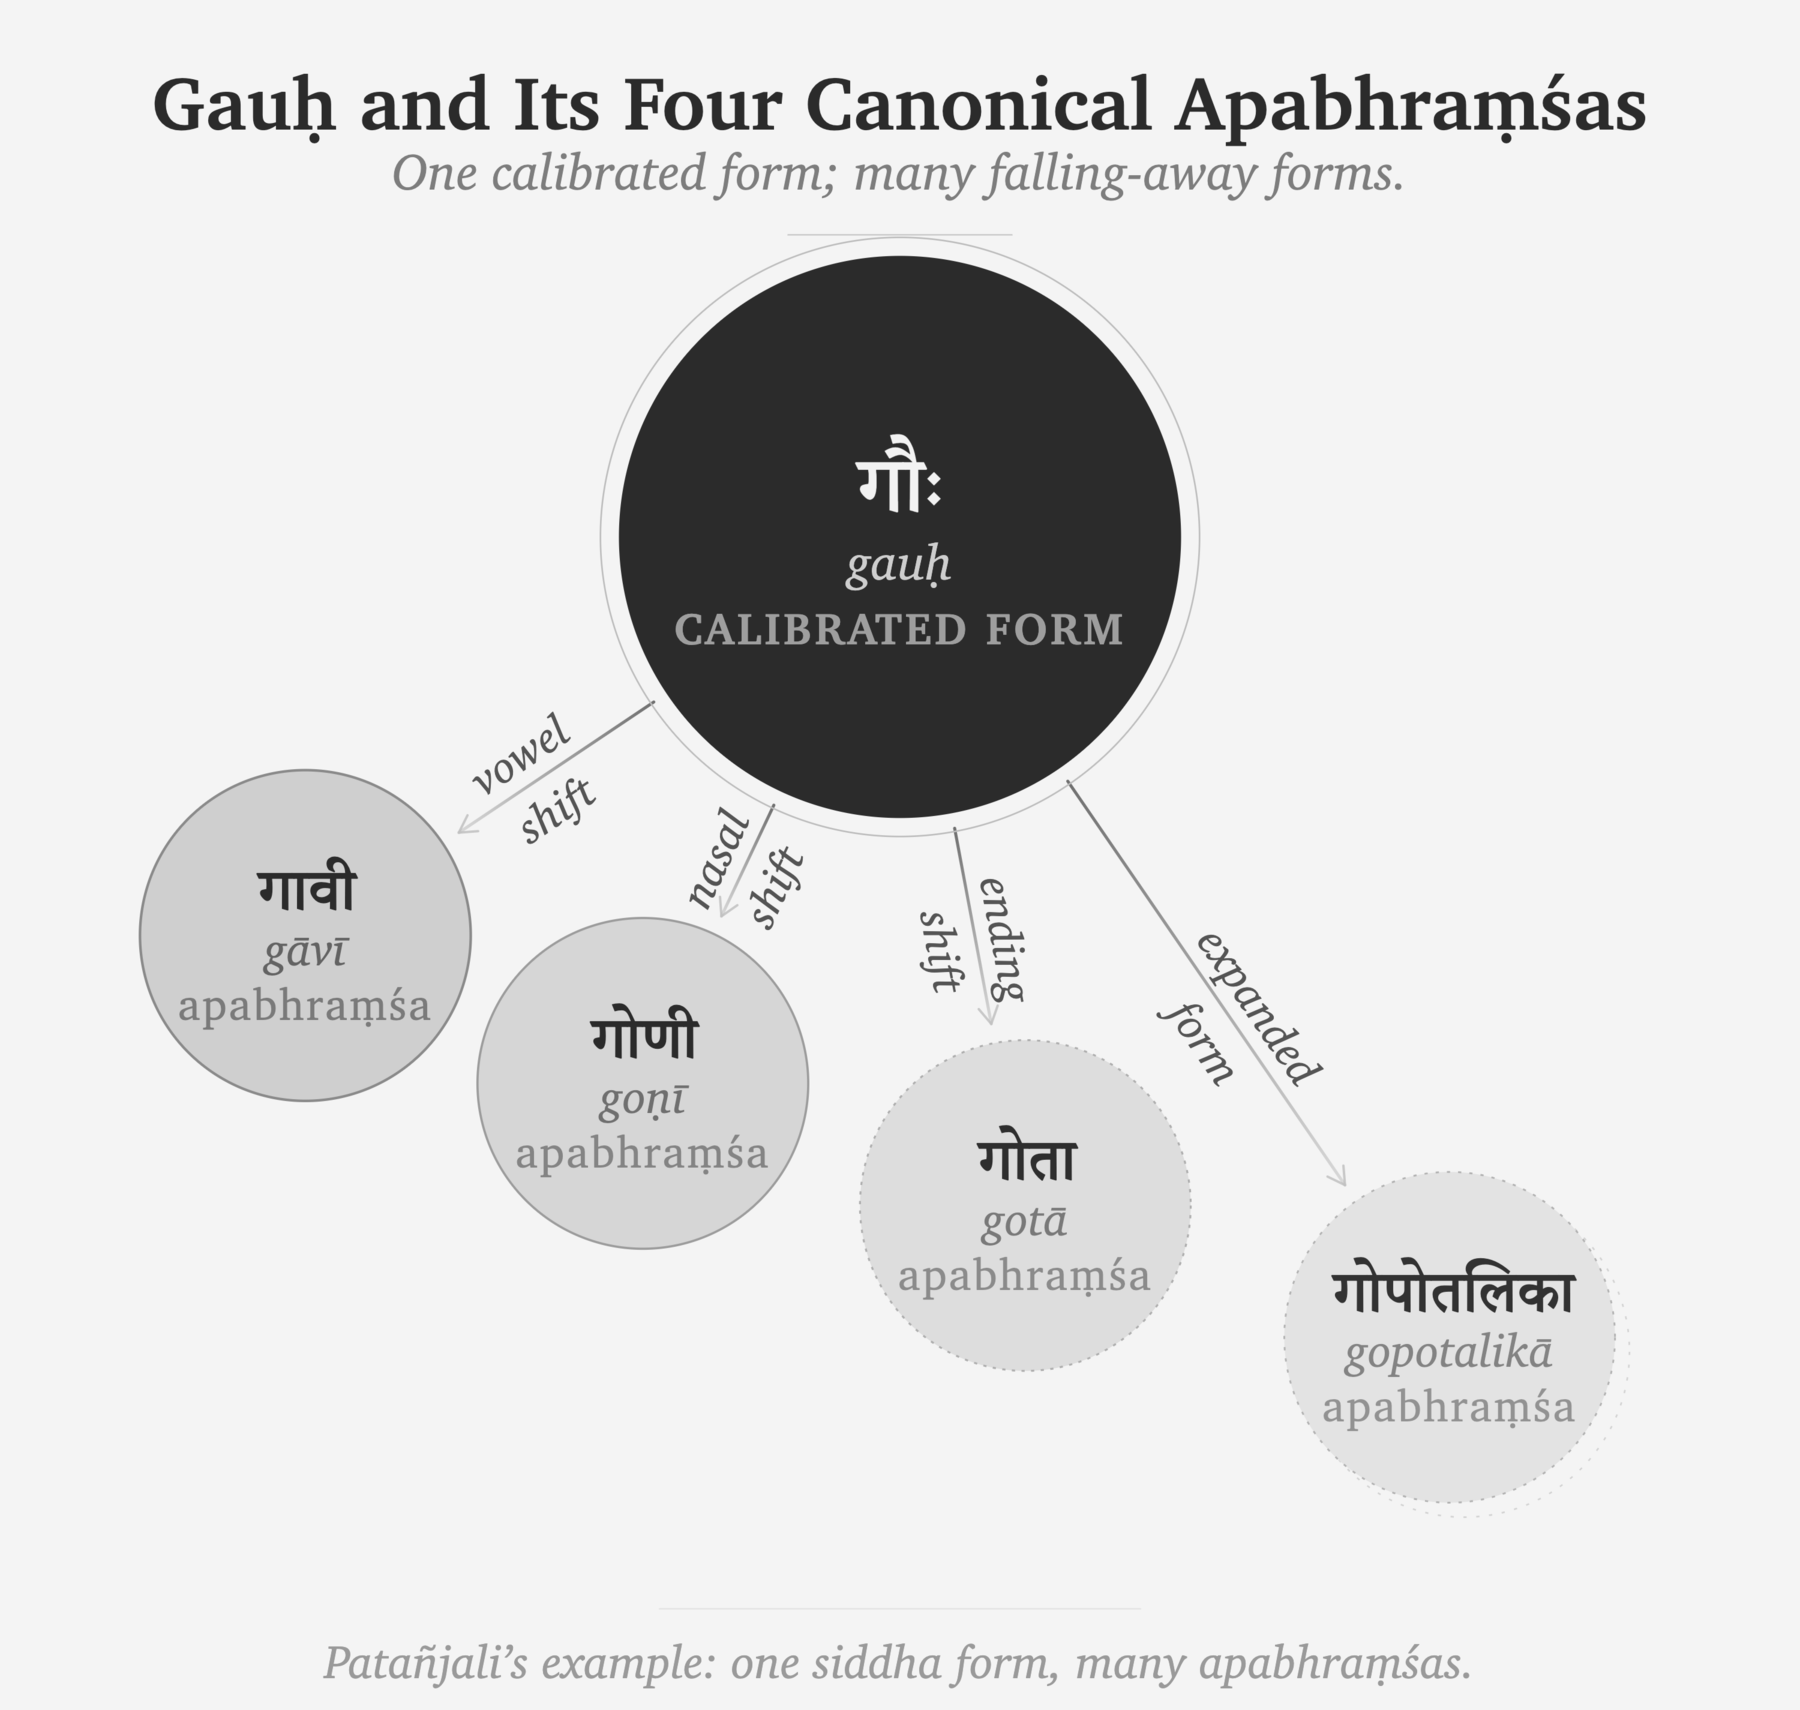
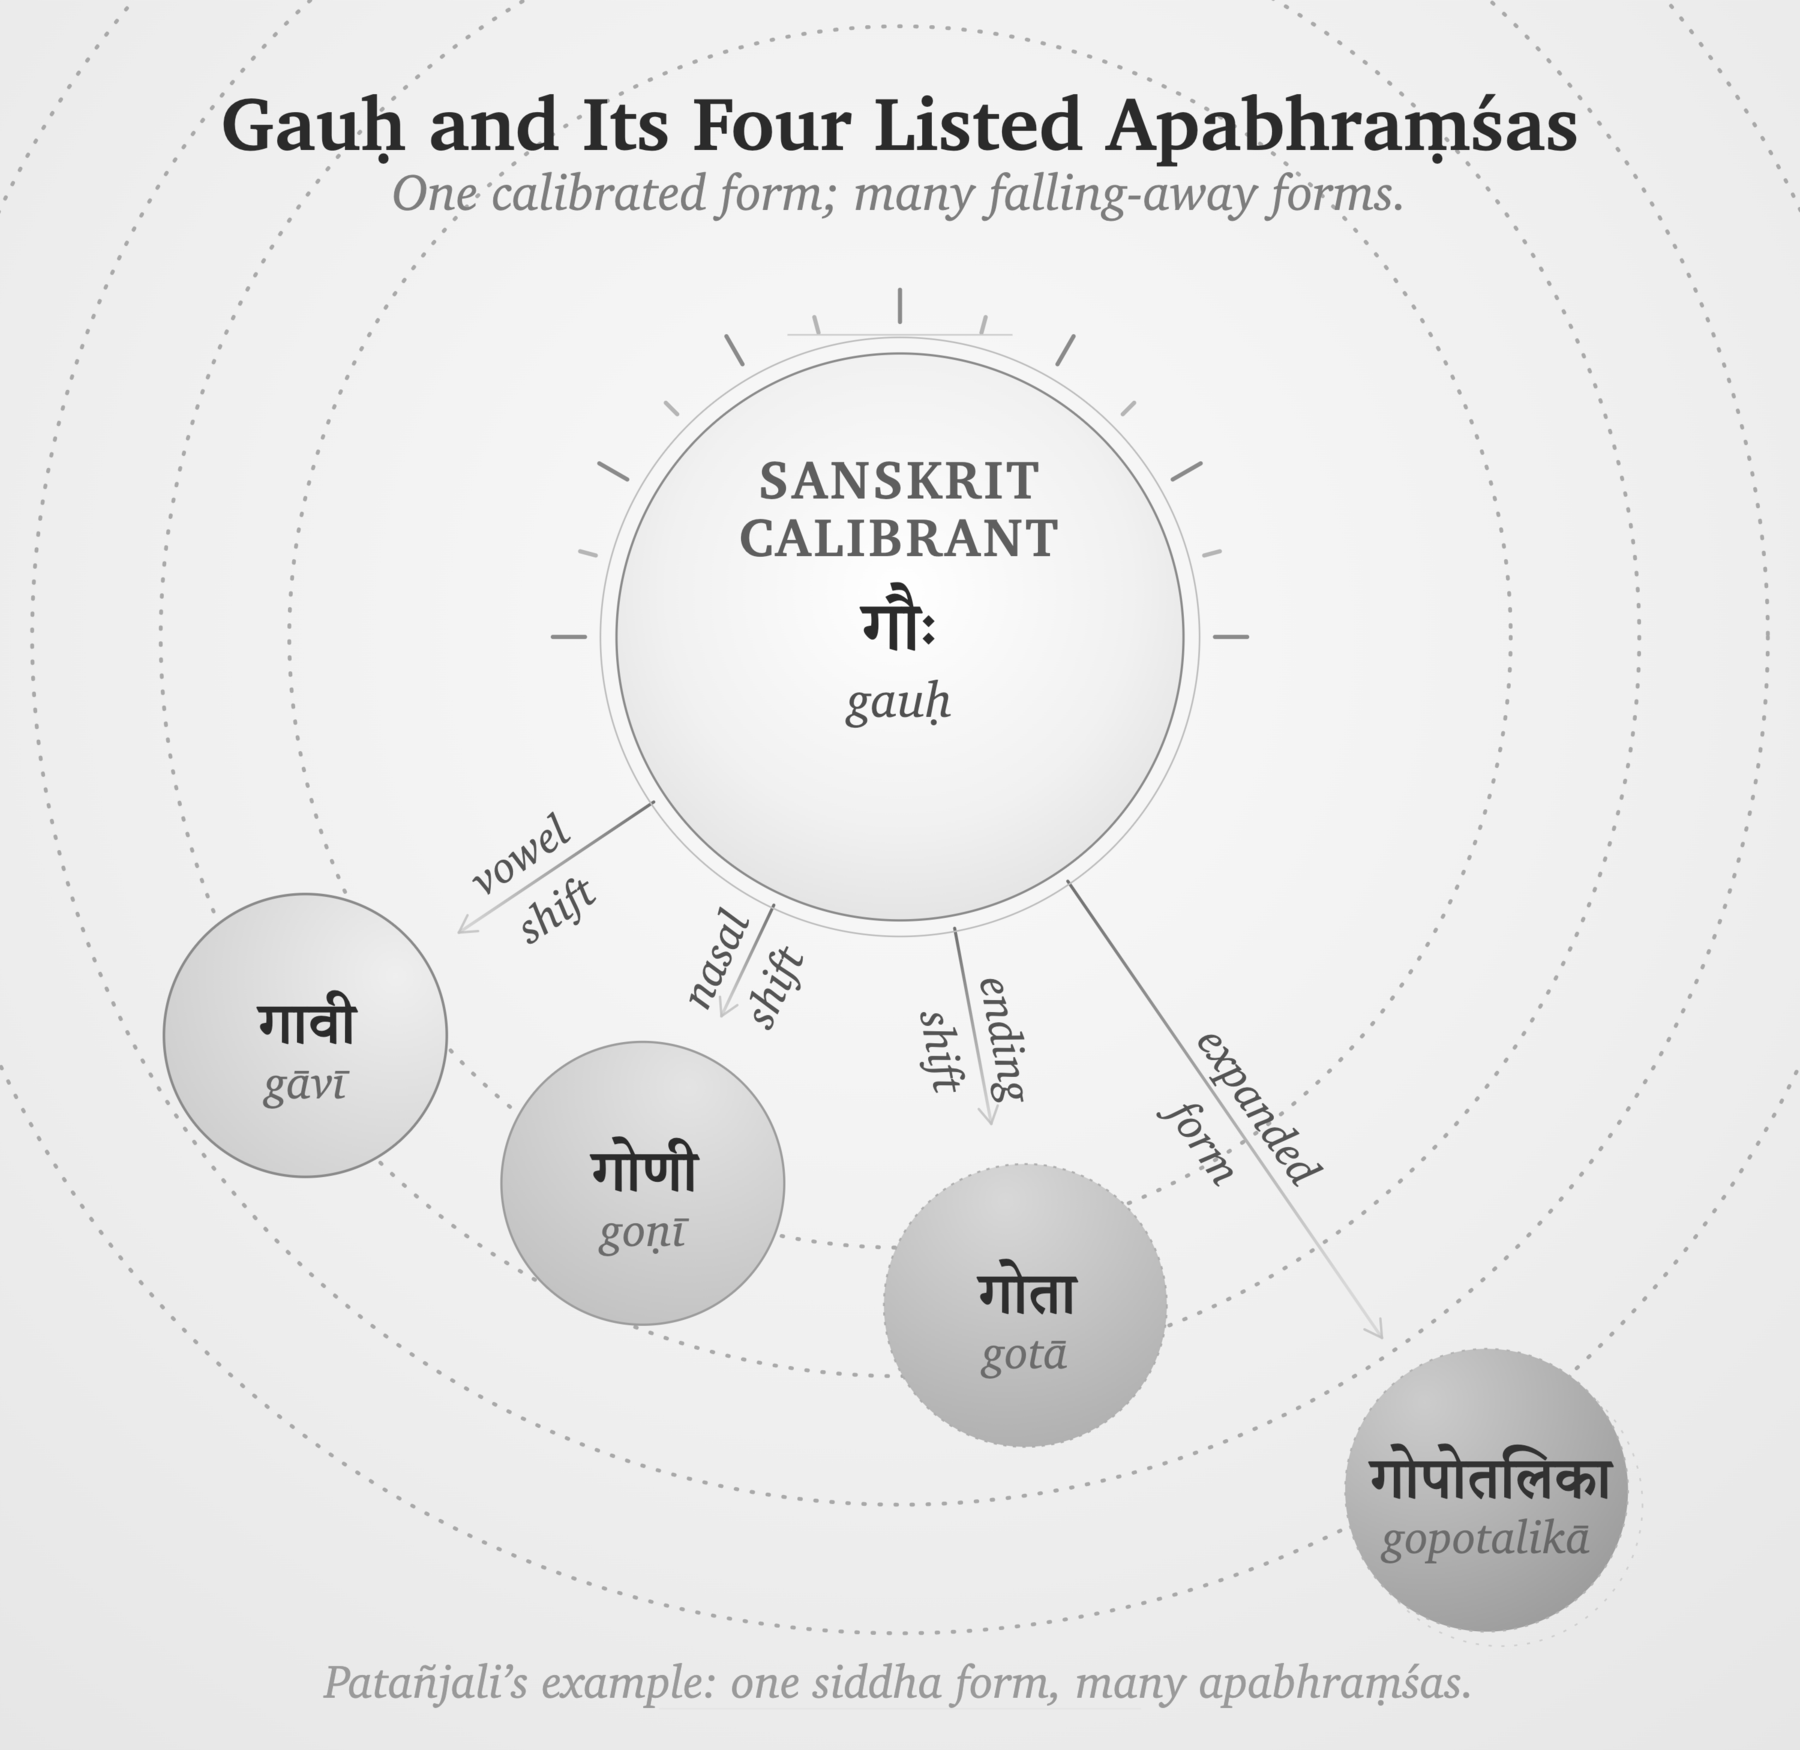
Ch3 §3.6 author polish: "sound-form" precision, chronology-requirement beat, career expanded
Author refinements to the asura analysis:
- "two words on one shape" → "two words in one sound-form" throughout (the
  precise term; shape suggested writing).
- ¶141 restructured: the pyramid's story REQUIRES chronology (early lord →
  later demon → Iranian preserver) stated explicitly before the schism; the
  career beat expanded — "papers, chairs, citations, dictionary entries...
  The pyramid rewards the fraud with promotion, a better title, a larger
  office, and another floor climbed inside the pyramid."
- "But nothing flipped, and nothing came late" promoted to its own paragraph.
- Varuṇa translation: "sins" → "wrongs" (enāṃsi).
- MW line: bare सुर् → ⟪सुर्⟫; "the very root" → "the very evidence."

Plus figure regens: gauh_four_apabhramsas (svg + pngs), sanatana_triad /
seekers_vaidika_laukika gray exports.

downloads/ deliberately left untracked (third-party reference charts).

diff --git a/writing/books/atomicSanskrit/as_1_03_strategic.md b/writing/books/atomicSanskrit/as_1_03_strategic.md
@@ -106,7 +106,7 @@ That is exactly what Western philology has done with the word **असुर (*a
 
 The wise of the wiser ages foresaw that the *Kaliyuga* (कलियुग) would be the age of confusion — the settled unsettled, the plain made murky, the clear made hard to see. Even they could not have scripted this: a civilization gaslit by a *homonym*. Stand in a room and insist the bound captive is really free, and the room laughs. Insist that the *asura* the Ṛgveda praises and the *asura* of the adversary are the same word — that the lineage which has recited the praise across thousands of years has misheard the word in its own mouth — and the claim is printed in the reference works, taught from the best chairs, and believed by many Hindus persuaded that the pyramid understands the Veda better than their own lineage-chain ever could. The deliberate conflation is the gaslight. The homonym is where the fingerprints are.
 
-**Sanskrit is not naive about words that carry more than one meaning.** The discipline catalogued the phenomenon and gave it names — **नानार्थ (*nānārtha*)** and **अनेकार्थ (*anekārtha*)**, *many-meaning*: a single form standing over more than one sense. The lexicons built whole registers for such forms — the **अमरकोश (*Amarakośa*)**, the most-memorized thesaurus in the lineage-chain, sets aside its **नानार्थवर्ग (*nānārtha-varga*)**, and Hemacandra gave a dictionary over to them entirely, the *Anekārtha-saṃgraha*. **गो (*go*)** is cow, and earth, and speech, and the ray of light — one form, four referents, and the reciter holds all four without strain. **हरि (*hari*)** is Viṣṇu, and Indra, and lion, and horse, and the color green — one form, and the verse settles which. The analysts pressed the question further and split it in two: a single word stretched across many senses — *ekaśabda*, one-word — against several distinct words collapsed onto one form — **अनेकशब्द (*anekaśabda*)**, many-words. That is precisely the distinction the pyramid's reversal-story needs and will not draw. *Bound* is *anekaśabda*: two words on one shape, not one word turned inside out.[NOTE: nanartha-homonymy]
+**Sanskrit is not naive about words that carry more than one meaning.** The discipline catalogued the phenomenon and gave it names — **नानार्थ (*nānārtha*)** and **अनेकार्थ (*anekārtha*)**, *many-meaning*: a single form standing over more than one sense. The lexicons built whole registers for such forms — the **अमरकोश (*Amarakośa*)**, the most-memorized thesaurus in the lineage-chain, sets aside its **नानार्थवर्ग (*nānārtha-varga*)**, and Hemacandra gave a dictionary over to them entirely, the *Anekārtha-saṃgraha*. **गो (*go*)** is cow, and earth, and speech, and the ray of light — one form, four referents, and the reciter holds all four without strain. **हरि (*hari*)** is Viṣṇu, and Indra, and lion, and horse, and the color green — one form, and the verse settles which. The analysts pressed the question further and split it in two: a single word stretched across many senses — *ekaśabda*, one-word — against several distinct words collapsed onto one form — **अनेकशब्द (*anekaśabda*)**, many-words. That is precisely the distinction the pyramid's reversal-story needs and will not draw. *Bound* is *anekaśabda*: two words in one sound-form, not one word turned inside out.[NOTE: nanartha-homonymy]
 
 Yāska built the same caution into his method. His governing rule is that **नामान्याख्यातजानि (*nāmāny ākhyātajāni*)** — names arise from actions: a name is not a flat label but a disclosure of what its bearer does.[NOTE: nirukta-names-from-actions]
 
@@ -122,7 +122,7 @@ Varuṇa wears it for a different deed — he *releases*. The *asura* here is th
 > अव ते हेळो वरुण नमोभिरव यज्ञेभिरीमहे हविर्भिः ।\
 > क्षयन्नस्मभ्यमसुर प्रचेता राजन्नेनांसि शिश्रथः कृतानि ॥
 >
-> *"With obeisance, with sacrifice, with oblation we soften your wrath, O Varuṇa. Ruling over us, O wise asura, O king, loosen from us the sins we have committed."* (RV 1.24.14)[NOTE: rv-1-24-14-varuna-asura]
+> *"With obeisance, with sacrifice, with oblation we soften your wrath, O Varuṇa. Ruling over us, O wise asura, O king, loosen from us the wrongs we have committed."* (RV 1.24.14)[NOTE: rv-1-24-14-varuna-asura]
 
 Two deeds, one thing held. Indra keeps the life of his people and hands it out as strength; Varuṇa frees it from the knot of guilt. The word reaches wherever that holding reaches: the Ṛgveda calls Agni *asura*, and Rudra, and Mitra — each for the life he holds. Agni for the life-fire he carries and the vigour he rules; Rudra for the fierce command over life and its healing; Mitra for the bond that holds men together.[NOTE: rv-agni-mitra-rudra-asura] The *asura* the Ṛgveda honours is the one who holds the life of the worlds and lets it move — the bearer of *asu*, the life-breath, exactly the figure *nāmāny ākhyātajāni* would predict. This is the *asura* the Ṛgveda praises.
 
@@ -136,13 +136,15 @@ And Yāska keeps the same honesty when he turns to the word itself. He does not 
 >
 > ***a-sura*** (असुर) — *the sura's opponent*: *asurāḥ suravirodhinaḥ*, "adversaries of the *suras*." A *laukika* parse — it sets *asura* against *sura*, rather than deriving it from a deed.
 
-Four alternatives for one form. Three interpretations of the word by a deed — *vaidika* action-derivations: the evil-caster who hurls off misfortune (⟪अस्⟫), the cast-down flung from his station (⟪अस्⟫), and the breath-bearer who holds the life-force (*asu*). The fourth, *a-sura*, is *laukika* — a relational gloss from the curated world, *asurāḥ suravirodhinaḥ*, "opponents of the *suras*," which leaves *sura* unrooted. The discipline completes it: *sura* is the shining one, from the *dhātu* ⟪सुर्⟫ (*sur*, *to shine*), and *a-sura* is its privative — the un-shining, the one who gives no light, the one who holds it back.[NOTE: sura-dhatu-dipti] **Separate the derivations and the two asuras stand apart. The *asura* the Ṛgveda praises and the *asura* of the adversary are not one word. They are two** — *asu-ra*, the breath-bearer the mantras just praised, and *a-sura*, the withholder, the other word on the same shape.
+Four alternatives for one form. Three interpretations of the word by a deed — *vaidika* action-derivations: the evil-caster who hurls off misfortune (⟪अस्⟫), the cast-down flung from his station (⟪अस्⟫), and the breath-bearer who holds the life-force (*asu*). The fourth, *a-sura*, is *laukika* — a relational gloss from the curated world, *asurāḥ suravirodhinaḥ*, "opponents of the *suras*," which leaves *sura* unrooted. The discipline completes it: *sura* is the shining one, from the *dhātu* ⟪सुर्⟫ (*sur*, *to shine*), and *a-sura* is its privative — the un-shining, the one who gives no light, the one who holds it back.[NOTE: sura-dhatu-dipti] **Separate the derivations and the two asuras stand apart. The *asura* the Ṛgveda praises and the *asura* of the adversary are not one word. They are two** — *asu-ra*, the breath-bearer the mantras just praised, and *a-sura*, the withholder, the other word in the same sound-form.
 
-With the two words untangled, the philological agenda stands exposed. The *asura* also stands as the adversary the *devāḥ* throw down; across the mountains the Avestan *ahura* is the high word of praise — Ahura Mazdā, the Wise Lord. To the asuric pyramid this was not a puzzle. It was an opportunity. A form that seemed to mean its own opposite — crowned in one corpus, cast down in another, praised across the mountains — was raw material for a whole prehistory: an Indo-Iranian religious schism, two branches of one people who split and traded their *devas* for *asuras*, the debris of a lost common theology reconstructed backward into PIE. Somewhere down the machinery, the philologist who spun the schism from three syllables made a career of the "discovery"; the pyramid promotes what feeds it. But nothing flipped, and nothing came late. The praised *asura* is the breath-bearer, the holder of life — and the Iranian *ahura* is that same holder of life, never turned, because he was never the other word at all. The adversary is *a-sura*, the withholder — the other word on the same shape, standing beside the praise, not arriving after it. 
+With the two words untangled, the philological agenda stands exposed. The pyramid's story requires chronology: first, an early Vedic *asura* as lord or power; later, an Indian *asura* as demon; across the mountains, an Iranian *ahura* preserving the older sense. On that sequence it builds a whole prehistory — an Indo-Iranian religious schism, two branches of one people who split and traded their *devas* for *asuras*, the debris of a lost common theology reconstructed backward into PIE. A philologist could turn that reversal into a career: papers, chairs, citations, dictionary entries, and the satisfaction of having "explained" what the lineage had supposedly misunderstood in its own mouth. The pyramid rewards the fraud with promotion, a better title, a larger office, and another floor climbed inside the pyramid.
 
-The schism the machinery reconstructed was never in the languages, and never in time. Nor was it a mishearing — any child holds two words on one shape apart, and so could the philologist. The pyramid pressed them into one on purpose, because a single reversed word buys what two honest words refuse. It buys the imaginary proto-tongue (PIE) to reconstruct. It buys the family tree that files Sanskrit in as a branch. It buys the two-branch race and the borrowed theology. The reversal was not misheard or misunderstood; it was invented — the same custody the pyramid takes when it forces the *Veda* onto a clock and files the calibrant as late (Chapter 1). And the shining root was never hidden from them: Monier-Williams's own dictionary glosses the *dhātu* सुर् as *to shine*, copied from the *Dhātupāṭha* — the very root that makes *a-sura* the un-shining. The machinery held the shining root in one hand and built the reversal with the other.
+But nothing flipped, and nothing came late. The praised *asura* is the breath-bearer, the holder of life. The Iranian *ahura* belongs to that same life-holding field. The adversary is *a-sura*, the withholder — the other word in the same sound-form, standing beside the praise, not arriving after it.
 
-So when this book says *asura*, it means the second word. Not the breath-bearer the Ṛgveda praises — the *a-sura*, the un-shining, the one who holds back the light. That is the *asura* the book carries across its chapters: the withholder, the agent of containment. The two words sound identical; the deed tells them apart. And the deed of the *a-sura* is withholding — which is exactly where the Veda's oldest myths take up the case.
+The schism the machinery reconstructed was never in the languages, and never in time. Nor was it a mishearing — any child holds two words in one sound-form apart, and so could the philologist. The pyramid pressed them into one on purpose, because a single reversed word buys what two honest words refuse. It buys the imaginary proto-tongue (PIE) to reconstruct. It buys the family tree that files Sanskrit in as a branch. It buys the two-branch race and the borrowed theology. The reversal was not misheard or misunderstood; it was invented — the same custody the pyramid takes when it forces the *Veda* onto a clock and files the calibrant as late (Chapter 1). And the shining *dhātu* was never hidden from them: Monier-Williams's own dictionary glosses ⟪सुर्⟫ as "to shine," copied from the *Dhātupāṭha* — the very evidence that makes *a-sura* the un-shining. The machinery held the shining *dhātu* in one hand and built the reversal with the other.
+
+So when this book says *asura*, it means the second word. Not the breath-bearer the Ṛgveda praises — the *a-sura*, the un-shining, the one who holds back the light. That is the *asura* the book carries across its chapters: the withholder, the agent of containment. The two words share a sound-form; the deed tells them apart. And the deed of the *a-sura* is withholding — which is exactly where the Veda's oldest myths take up the case.
 
 ## 3.7 The Vedic Shape of Containment
 
